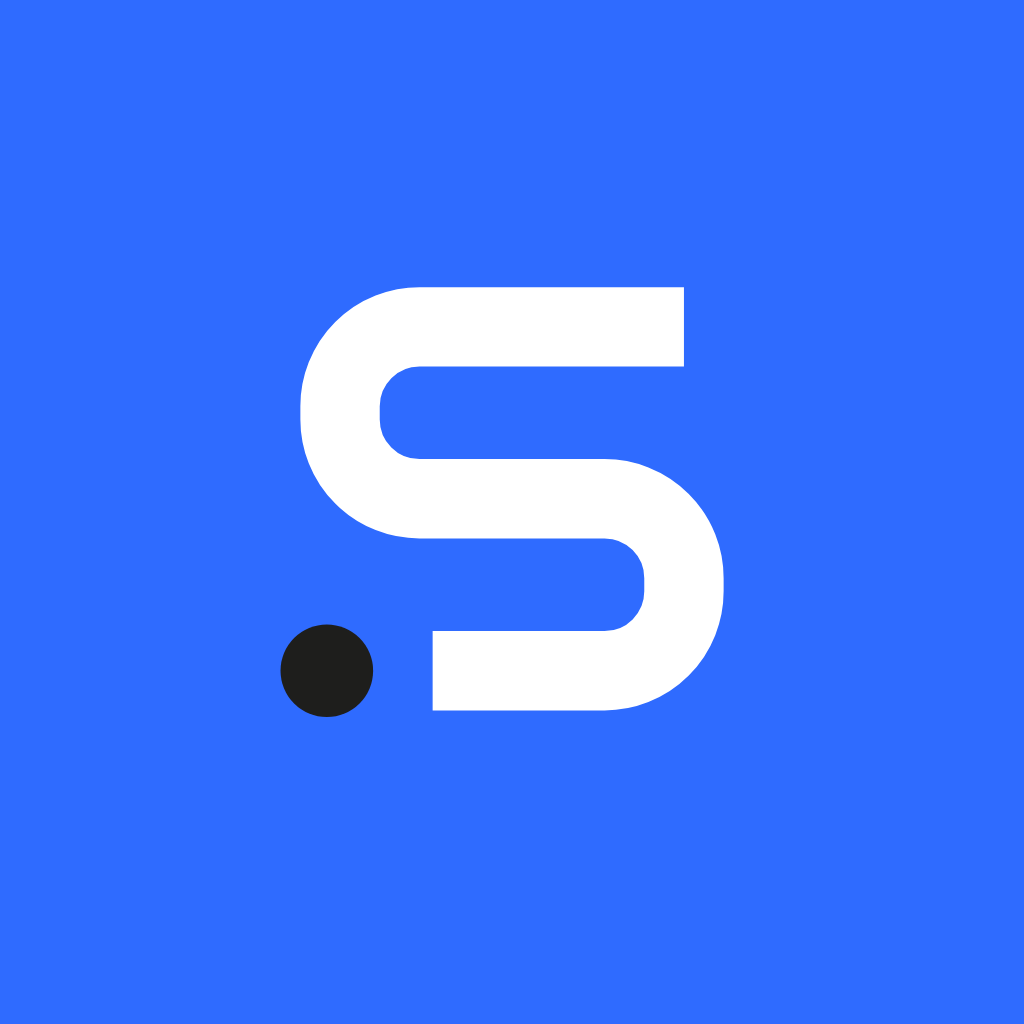
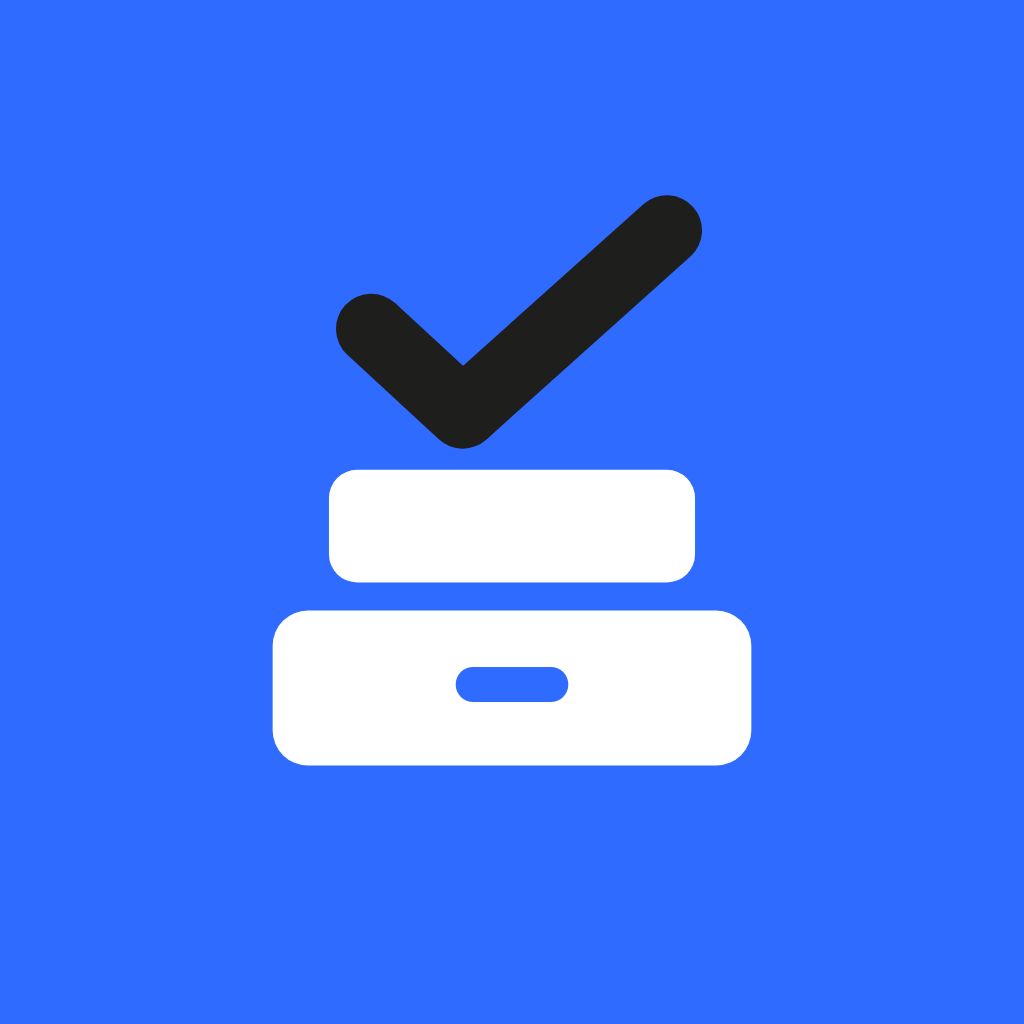
Switch the brand mark to Stack & Check, as in the team's design
The design export (StockSure Logo Concepts PDF) uses concept 01, Stack &
Check, for the mark and the splash, not the Shelf S.

- BrandMark is now two charcoal crates with a blue tick (shapes in MARK).
- Splash: the bottom crate rises into place, the top crate drops onto it,
  the tick is drawn, then the name and tagline rise. Same frame-clock
  approach and reduced-motion still frame as before.
- App icon, adaptive icon layers and favicon regenerated from the design's
  blue tile: white crates and a charcoal tick.

Claude-Session: https://claude.ai/code/session_015crWnANubK1DHwTQKqfkf2

Changed region(s): [[0.25, 0.1875, 0.75, 0.75]]

diff --git a/mobile/src/components/animated-splash.tsx b/mobile/src/components/animated-splash.tsx
@@ -10,8 +10,8 @@ import Animated, {
   withDelay,
   withTiming,
 } from 'react-native-reanimated';
-import Svg, { Circle, Path } from 'react-native-svg';
-import { MARK_DOT, MARK_STROKE, MARK_S_PATH, MARK_VIEWBOX, Wordmark } from './brand';
+import Svg, { G, Path, Rect } from 'react-native-svg';
+import { MARK, MARK_VIEWBOX, Wordmark } from './brand';
 import { useI18n } from '../i18n';
 import { colors, spacing, typeScale } from '../theme/tokens';
 
@@ -19,29 +19,35 @@ import { colors, spacing, typeScale } from '../theme/tokens';
 // painted, so the hand-over is invisible. Called once, at import time.
 void SplashScreen.preventAutoHideAsync().catch(() => undefined);
 
-/** Ease in and out, for the pen stroke. */
+/** Ease in and out, for the tick being drawn. */
 const easeInOutCubic = (x: number) => (x < 0.5 ? 4 * x * x * x : 1 - (-2 * x + 2) ** 3 / 2);
-/** A little overshoot, for the dot popping in. */
+/** A little overshoot, for a crate landing. */
 const easeOutBack = (x: number) => 1 + 2.7 * (x - 1) ** 3 + 1.7 * (x - 1) ** 2;
-const DOT_MS = 320;
+const clamp01 = (x: number) => Math.min(1, Math.max(0, x));
+
+type MarkProgress = { bottom: number; top: number; tick: number };
 
 /**
- * Progress of the S stroke (0 to 1) and the dot (0 to ~1.1), driven by a plain
- * animation-frame clock. The SVG gets ordinary props each frame: animating
- * SVG props through Reanimated left the S undrawn on some Android phones.
+ * How far each part of the mark has come (0 to 1): the bottom crate rises
+ * into place, the top crate drops onto it, then the tick is drawn. Driven by a
+ * plain animation-frame clock so the SVG gets ordinary props each frame:
+ * animating SVG props through Reanimated left the mark undrawn on some phones.
  */
-function useMarkProgress(timing: { drawDelay: number; draw: number; dot: number }, still: boolean) {
-  const [progress, setProgress] = useState(() => (still ? { draw: 1, dot: 1 } : { draw: 0, dot: 0 }));
+function useMarkProgress(timing: Timing, still: boolean): MarkProgress {
+  const [progress, setProgress] = useState<MarkProgress>(() =>
+    still ? { bottom: 1, top: 1, tick: 1 } : { bottom: 0, top: 0, tick: 0 },
+  );
   useEffect(() => {
     if (still) return;
     const start = Date.now();
     let frame = 0;
     const tick = () => {
       const elapsed = Date.now() - start;
-      const draw = Math.min(1, Math.max(0, (elapsed - timing.drawDelay) / timing.draw));
-      const dotT = Math.min(1, Math.max(0, (elapsed - timing.dot) / DOT_MS));
-      setProgress({ draw: easeInOutCubic(draw), dot: dotT === 0 ? 0 : easeOutBack(dotT) });
-      if (draw < 1 || dotT < 1) frame = requestAnimationFrame(tick);
+      const bottom = clamp01((elapsed - timing.bottom) / timing.crateLen);
+      const top = clamp01((elapsed - timing.top) / timing.crateLen);
+      const stroke = clamp01((elapsed - timing.tick) / timing.tickLen);
+      setProgress({ bottom, top, tick: stroke });
+      if (stroke < 1) frame = requestAnimationFrame(tick);
     };
     frame = requestAnimationFrame(tick);
     return () => cancelAnimationFrame(frame);
@@ -49,8 +55,6 @@ function useMarkProgress(timing: { drawDelay: number; draw: number; dot: number 
   return progress;
 }
 
-/** Length of MARK_S_PATH in viewBox units: 94 straight + 4 vertical + 4 quarter arcs of r 12. */
-const S_LENGTH = 174;
 const SEEN_KEY = 'stocksure.splashSeen';
 
 /**
@@ -59,9 +63,10 @@ const SEEN_KEY = 'stocksure.splashSeen';
  * record a sale should not wait for a logo.
  */
 const TIMINGS = {
-  full: { drawDelay: 150, draw: 1000, dot: 1150, word: 1450, wordLen: 450, tag: 1700, min: 2500 },
-  short: { drawDelay: 0, draw: 500, dot: 500, word: 650, wordLen: 300, tag: 750, min: 1300 },
+  full: { bottom: 150, top: 450, crateLen: 350, tick: 800, tickLen: 600, word: 1450, wordLen: 450, tag: 1700, min: 2500 },
+  short: { bottom: 0, top: 150, crateLen: 200, tick: 350, tickLen: 350, word: 650, wordLen: 300, tag: 750, min: 1300 },
 } as const;
+type Timing = (typeof TIMINGS)[keyof typeof TIMINGS];
 const EXIT_MS = 280;
 
 function readSeen() {
@@ -73,7 +78,7 @@ function readSeen() {
 }
 
 /**
- * The StockSure splash: the S draws itself, the blue dot pops in, then the name
+ * The StockSure splash: the crates stack up, the blue tick is drawn, then the name
  * and tagline rise. It stays until the app is `ready` (database and session
  * loaded) and the animation has played, then fades out to reveal the app.
  */
@@ -131,17 +136,25 @@ export function AnimatedSplash({ ready, onDone }: { ready: boolean; onDone: () =
       pointerEvents={ready && played ? 'none' : 'auto'}
     >
       <Svg width={128} height={128} viewBox={MARK_VIEWBOX}>
-        <Path
-          d={MARK_S_PATH}
-          fill="none"
-          stroke={colors.charcoal}
-          strokeWidth={MARK_STROKE}
-          strokeLinejoin="round"
-          strokeDasharray={[S_LENGTH, S_LENGTH]}
-          strokeDashoffset={S_LENGTH * (1 - mark.draw)}
-        />
-        {mark.dot > 0 ? (
-          <Circle cx={MARK_DOT.cx} cy={MARK_DOT.cy} r={MARK_DOT.r * mark.dot} fill={colors.primary} />
+        {/* Bottom crate rises 10 units into place; top crate drops 14 onto it. */}
+        <G opacity={mark.bottom} transform={`translate(0 ${10 * (1 - easeOutBack(mark.bottom))})`}>
+          <Rect {...MARK.bottom} fill={colors.charcoal} />
+          <Rect {...MARK.slot} fill={colors.bg} />
+        </G>
+        <G opacity={mark.top} transform={`translate(0 ${-14 * (1 - easeOutBack(mark.top))})`}>
+          <Rect {...MARK.top} fill={colors.charcoal} />
+        </G>
+        {mark.tick > 0 ? (
+          <Path
+            d={MARK.tick}
+            fill="none"
+            stroke={colors.primary}
+            strokeWidth={MARK.tickWidth}
+            strokeLinecap="round"
+            strokeLinejoin="round"
+            strokeDasharray={[MARK.tickLength, MARK.tickLength]}
+            strokeDashoffset={MARK.tickLength * (1 - easeInOutCubic(mark.tick))}
+          />
         ) : null}
       </Svg>
       <Animated.View style={wordStyle}>

diff --git a/mobile/src/components/brand.tsx b/mobile/src/components/brand.tsx
@@ -1,31 +1,50 @@
 import { StyleSheet, Text, type TextStyle, type StyleProp } from 'react-native';
-import Svg, { Circle, Path } from 'react-native-svg';
+import Svg, { Path, Rect } from 'react-native-svg';
 import { colors } from '../theme/tokens';
 
 /**
- * The StockSure mark: a squared S drawn like shelving, ending in a blue dot.
- * Drawn on a 96 x 96 grid. The path and dot are shared with the animated
- * splash so the two can never drift apart.
+ * The StockSure mark, "Stack & Check": two crates of stock with a blue tick
+ * rising out of them. Drawn on a 96 x 96 grid. The shapes are shared with the
+ * animated splash so the two can never drift apart.
  */
 export const MARK_VIEWBOX = '0 0 96 96';
-export const MARK_S_PATH =
-  'M74 20 H34 a12 12 0 0 0 -12 12 v2 a12 12 0 0 0 12 12 H62 a12 12 0 0 1 12 12 v2 a12 12 0 0 1 -12 12 H36';
-export const MARK_STROKE = 12;
-export const MARK_DOT = { cx: 20, cy: 72, r: 7 } as const;
+export const MARK = {
+  bottom: { x: 14, y: 62, width: 68, height: 22, rx: 5 },
+  slot: { x: 40, y: 70, width: 16, height: 5, rx: 2.5 },
+  top: { x: 22, y: 42, width: 52, height: 16, rx: 4 },
+  tick: 'M28 22 L41 34 L70 8',
+  /** Length of the tick path: two straight strokes, about 17.7 + 38.9. */
+  tickLength: 57,
+  tickWidth: 10,
+} as const;
 
 export function BrandMark({
   size = 72,
   ink = colors.charcoal,
   accent = colors.primary,
+  knock = colors.bg,
 }: {
   size?: number;
+  /** The crates. */
   ink?: string;
+  /** The tick. */
   accent?: string;
+  /** The handle slot cut into the bottom crate: the colour behind the mark. */
+  knock?: string;
 }) {
   return (
     <Svg width={size} height={size} viewBox={MARK_VIEWBOX} accessibilityLabel="StockSure">
-      <Path d={MARK_S_PATH} fill="none" stroke={ink} strokeWidth={MARK_STROKE} strokeLinejoin="round" />
-      <Circle cx={MARK_DOT.cx} cy={MARK_DOT.cy} r={MARK_DOT.r} fill={accent} />
+      <Rect {...MARK.bottom} fill={ink} />
+      <Rect {...MARK.slot} fill={knock} />
+      <Rect {...MARK.top} fill={ink} />
+      <Path
+        d={MARK.tick}
+        fill="none"
+        stroke={accent}
+        strokeWidth={MARK.tickWidth}
+        strokeLinecap="round"
+        strokeLinejoin="round"
+      />
     </Svg>
   );
 }
